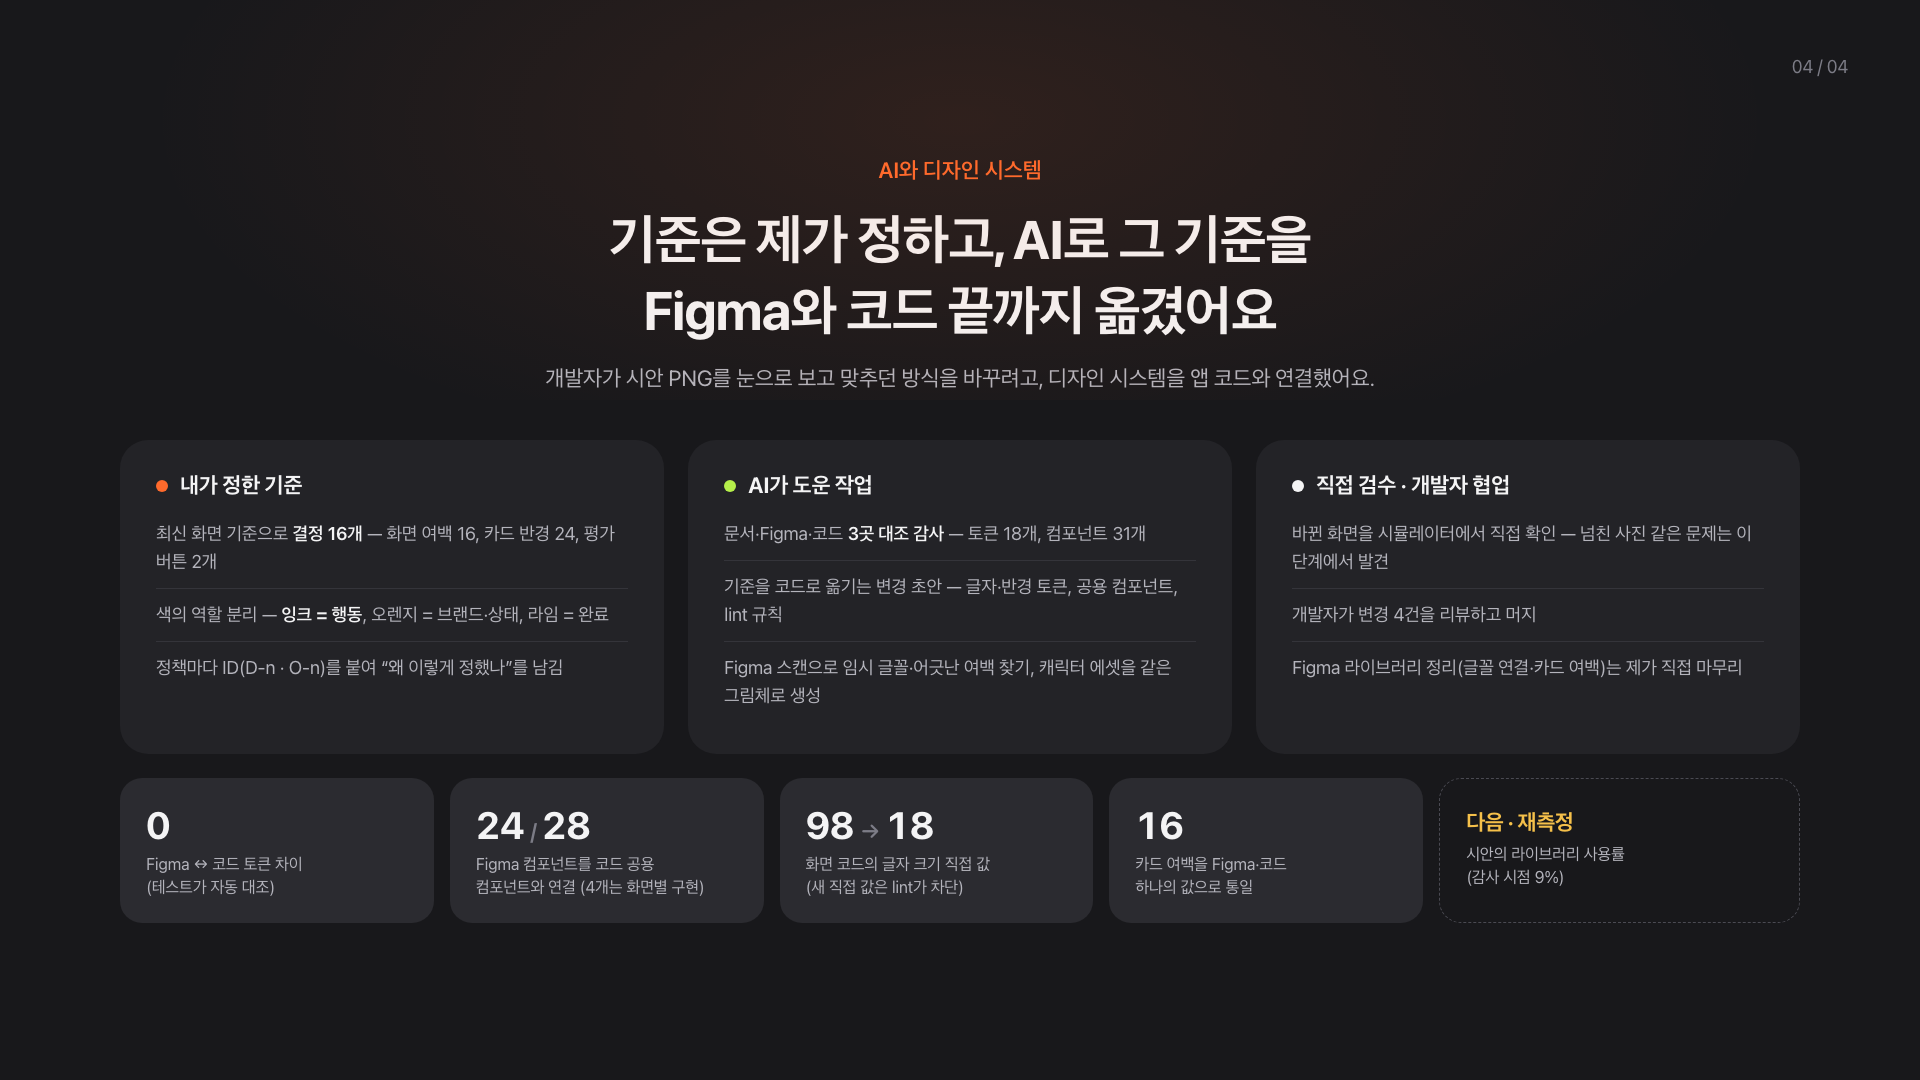
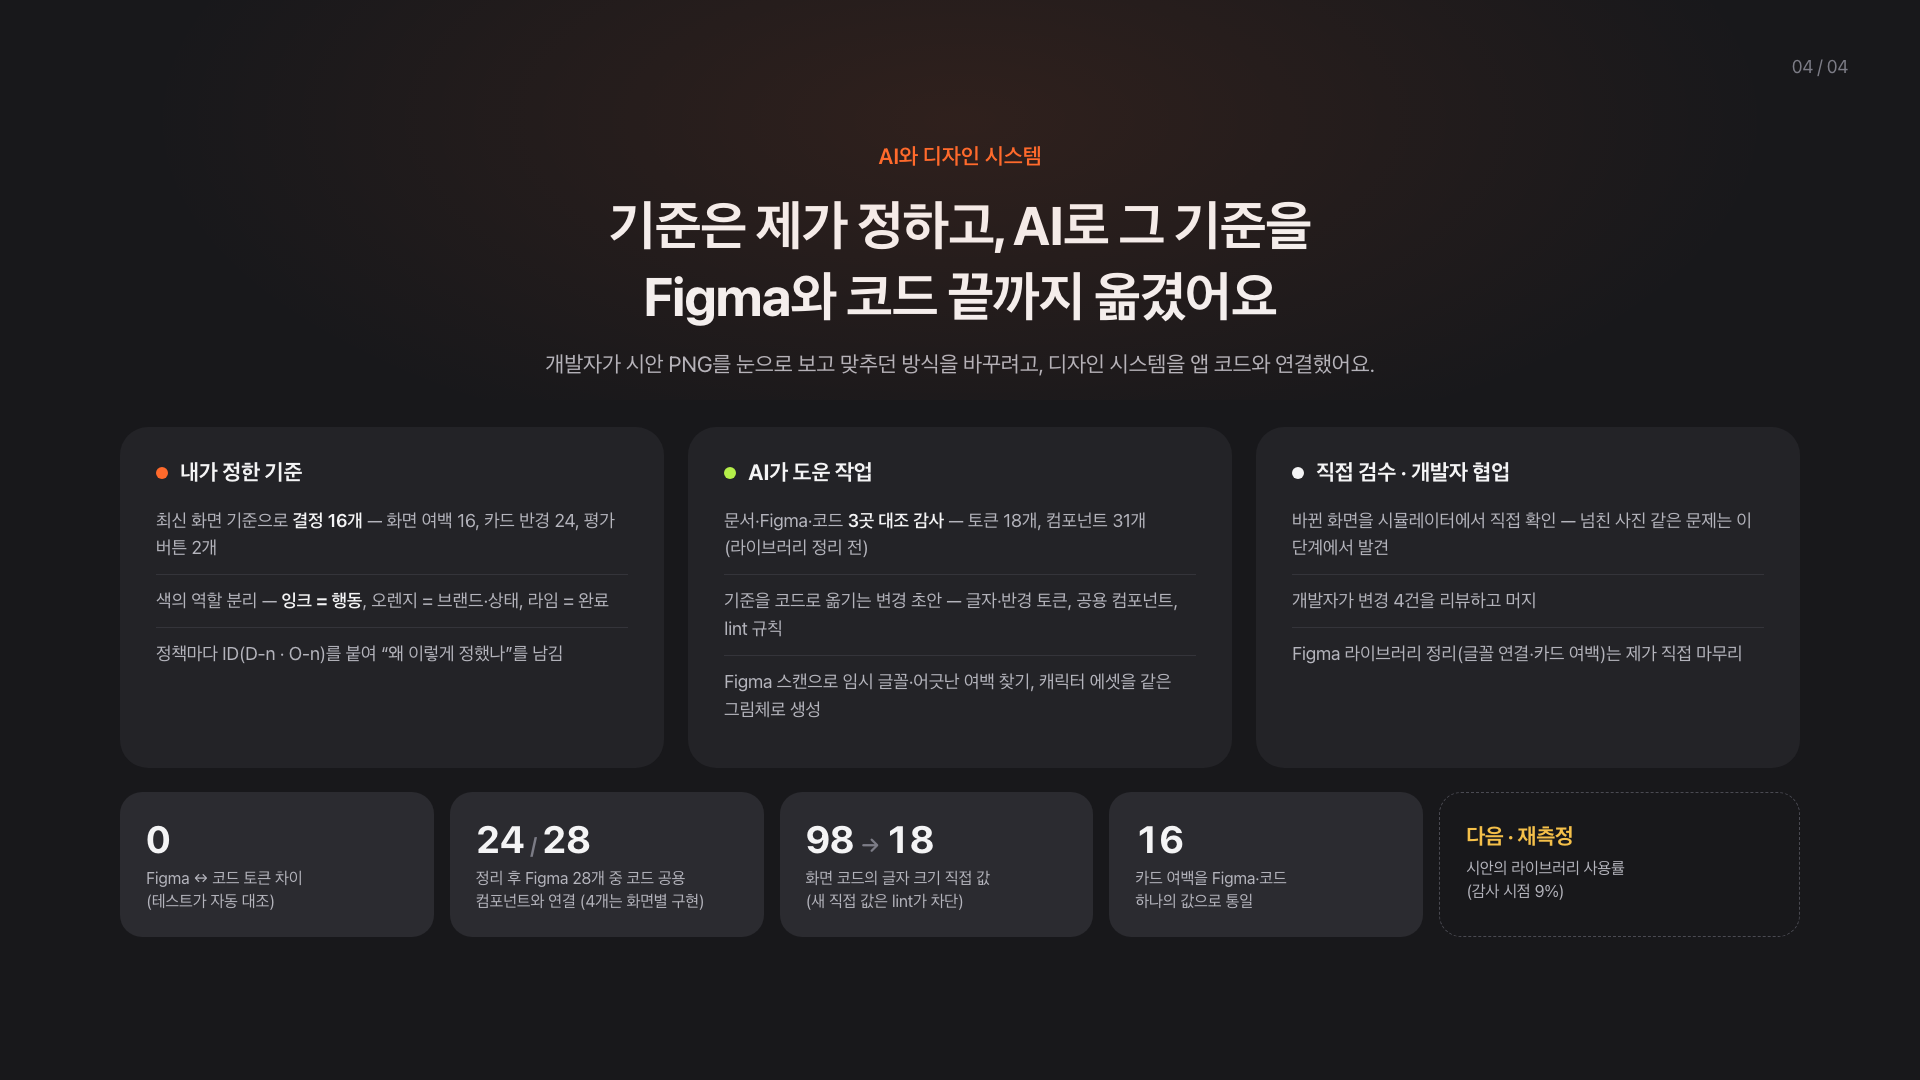
portfolio: 하루 12단어로 통일, 컴포넌트 수 기준 표기(정리 전 31 · 정리 후 28 중 24), onikan-02 Code Connect·1:1 문구를 토큰 차이 0 · 24/28 매핑으로 교체

diff --git a/portfolio/onikan-02-design-system.html b/portfolio/onikan-02-design-system.html
@@ -1,0 +1,192 @@
+<!doctype html>
+<html lang="ko">
+<head>
+<meta charset="utf-8">
+<title>Onikan 02 · Design System</title>
+<style>
+  @font-face{font-family:'Pretendard';font-weight:400;src:url('../handoff/_ds/tintin-design-system-0bedd68d-616c-4058-b2fa-e93785070703/assets/fonts/Pretendard-Regular.woff2') format('woff2')}
+  @font-face{font-family:'Pretendard';font-weight:500;src:url('../handoff/_ds/tintin-design-system-0bedd68d-616c-4058-b2fa-e93785070703/assets/fonts/Pretendard-Medium.woff2') format('woff2')}
+  @font-face{font-family:'Pretendard';font-weight:600;src:url('../handoff/_ds/tintin-design-system-0bedd68d-616c-4058-b2fa-e93785070703/assets/fonts/Pretendard-SemiBold.woff2') format('woff2')}
+  @font-face{font-family:'Pretendard';font-weight:700;src:url('../handoff/_ds/tintin-design-system-0bedd68d-616c-4058-b2fa-e93785070703/assets/fonts/Pretendard-Bold.woff2') format('woff2')}
+  @font-face{font-family:'Pretendard';font-weight:800;src:url('../handoff/_ds/tintin-design-system-0bedd68d-616c-4058-b2fa-e93785070703/assets/fonts/Pretendard-ExtraBold.woff2') format('woff2')}
+
+  :root{
+    --bg:#0E0F12; --card:#16171B; --card2:#1B1C22; --chip:#212228;
+    --line:rgba(255,255,255,.08); --line2:rgba(255,255,255,.06);
+    --tx:#F4F4F6; --bd:#AEAFB6; --mt:#75767D;
+    --or:#FF6A2B; --or-real:#EF5112; --lime:#A3E635; --ink:#1D1D21;
+    --mono:'SF Mono',ui-monospace,'Menlo',monospace;
+  }
+  *{box-sizing:border-box;margin:0;padding:0}
+  html,body{background:#000}
+  .slide{
+    position:relative; width:1920px; height:1080px; overflow:hidden;
+    background:
+      radial-gradient(1200px 620px at 50% -8%, rgba(255,106,43,.10), transparent 60%),
+      radial-gradient(900px 700px at 92% 8%, rgba(80,110,255,.06), transparent 55%),
+      var(--bg);
+    color:var(--tx);
+    font-family:'Pretendard','Apple SD Gothic Neo',-apple-system,system-ui,sans-serif;
+    -webkit-font-smoothing:antialiased;
+    padding:64px 84px 56px;
+    display:flex; flex-direction:column;
+  }
+  /* header */
+  .hd{display:flex; justify-content:space-between; align-items:center;
+      font-size:15px; letter-spacing:.14em; color:var(--mt); font-weight:600;
+      padding-bottom:18px; border-bottom:1px solid var(--line);}
+  .hd .l b{color:var(--or)} .hd .l span{color:#C9CAD0; margin-left:10px}
+  /* title */
+  .title{margin-top:34px}
+  .title h1{font-size:46px; font-weight:800; letter-spacing:-.02em; line-height:1.15}
+  .title p{margin-top:14px; font-size:19px; line-height:1.6; color:var(--bd); font-weight:400; max-width:1180px}
+  .title p b{color:#EDEDF0; font-weight:600}
+  /* governance band */
+  .gov{margin-top:26px; display:flex; align-items:center; gap:18px;
+       background:linear-gradient(90deg, rgba(255,106,43,.12), rgba(255,106,43,.03) 60%, transparent);
+       border:1px solid rgba(255,106,43,.28); border-radius:14px; padding:16px 22px;}
+  .gov .dot{width:9px;height:9px;border-radius:99px;background:var(--or);box-shadow:0 0 0 5px rgba(255,106,43,.16);flex:none}
+  .gov .k{font-size:13px;font-weight:700;letter-spacing:.12em;color:var(--or);flex:none}
+  .gov .v{font-size:23px;font-weight:700;letter-spacing:-.01em}
+  .gov .en{margin-left:auto;font-size:13px;color:var(--mt);font-family:var(--mono);letter-spacing:.02em}
+  /* cards */
+  .cards{margin-top:24px; flex:1; display:grid; grid-template-columns:repeat(3,1fr); gap:22px;}
+  .card{background:var(--card); border:1px solid var(--line); border-radius:20px; padding:26px 26px 24px;
+        display:flex; flex-direction:column;}
+  .card .no{font-size:13px;font-weight:700;color:var(--mt);font-family:var(--mono);letter-spacing:.1em}
+  .card .eb{margin-top:12px;font-size:12.5px;font-weight:700;letter-spacing:.16em;color:var(--or)}
+  .card h3{margin-top:7px;font-size:24px;font-weight:700;letter-spacing:-.01em}
+  .card .doc{margin-top:3px;font-size:13px;color:var(--mt);font-family:var(--mono)}
+  .divider{height:1px;background:var(--line2);margin:20px 0}
+  /* token rows */
+  .tok{display:flex;align-items:center;gap:13px;padding:9px 0}
+  .tok .sw{width:34px;height:34px;border-radius:9px;flex:none;border:1px solid rgba(255,255,255,.10)}
+  .tok .nm{font-size:15.5px;font-weight:600}
+  .tok .hex{font-size:12.5px;color:var(--mt);font-family:var(--mono);margin-top:2px}
+  .tok .role{margin-left:auto;font-size:13px;color:var(--bd)}
+  .metarow{display:flex;gap:8px;flex-wrap:wrap;margin-top:16px}
+  .mchip{font-size:13px;color:var(--bd);background:var(--chip);border:1px solid var(--line2);border-radius:8px;padding:7px 11px;font-weight:500}
+  .mchip b{color:#fff;font-weight:600}
+  /* contract block */
+  .code{background:#0C0D10;border:1px solid var(--line2);border-radius:12px;padding:16px 18px;font-family:var(--mono);font-size:13.5px;line-height:1.9;color:#C7C8CF}
+  .code .cn{color:var(--lime);font-weight:600}
+  .code .kk{color:var(--mt)} .code .vv{color:#EDEDF0}
+  .code .st{color:var(--or)}
+  .note{margin-top:15px;font-size:15px;line-height:1.55;color:var(--bd)}
+  .note b{color:#fff;font-weight:600}
+  /* decision before/after */
+  .ba{display:flex;align-items:center;gap:16px;margin-top:4px}
+  .pill{height:52px;border-radius:99px;display:flex;align-items:center;justify-content:center;font-size:15px;font-weight:600;flex:1}
+  .pill.before{background:var(--or-real);color:#fff;opacity:.55;position:relative}
+  .pill.before .x{position:absolute;right:-9px;top:-9px;width:22px;height:22px;border-radius:99px;background:#2a2b31;border:1px solid var(--line);display:flex;align-items:center;justify-content:center;font-size:12px;color:#ff7a7a}
+  .pill.after{background:var(--ink);color:#F7F7F9;border:1px solid rgba(255,255,255,.14)}
+  .arrow{color:var(--mt);font-size:22px;flex:none}
+  .lab{display:flex;justify-content:space-between;margin-top:8px;font-size:12px;color:var(--mt)}
+  .legend{display:flex;flex-direction:column;gap:9px;margin-top:18px}
+  .lg{display:flex;align-items:center;gap:10px;font-size:14px;color:var(--bd)}
+  .lg i{width:13px;height:13px;border-radius:4px;flex:none}
+  .lg b{color:#fff;font-weight:600}
+  /* tag foot in card */
+  .tag{margin-top:auto;padding-top:18px;font-size:13.5px;color:var(--mt)}
+  .tag b{color:var(--or)}
+  /* outcome */
+  .out{margin-top:22px;display:flex;align-items:center;gap:16px}
+  .out .ar{color:var(--or);font-size:20px;font-weight:800}
+  .out .t{font-size:19px;font-weight:600;color:#EDEDF0}
+  .out .sub{margin-left:auto;font-size:13px;letter-spacing:.12em;color:var(--mt);font-weight:600}
+</style>
+</head>
+<body>
+<div class="slide">
+  <div class="hd">
+    <div class="l"><b>02 · ONIKAN</b><span>DESIGN SYSTEM</span></div>
+    <div class="r">SSOT · GOVERNANCE</div>
+  </div>
+
+  <div class="title">
+    <h1>하나의 기준으로 굴러가는 디자인 시스템</h1>
+    <p>토큰을 한 문서(SSOT)에 모으고, 컴포넌트를 <b>계약</b>으로 고정하고, 결정마다 <b>근거</b>를 남겼습니다.
+       그래서 화면이 늘어도 · 다른 사람이 이어받아도 기준이 흔들리지 않습니다.</p>
+  </div>
+
+  <div class="gov">
+    <span class="dot"></span>
+    <span class="k">SSOT 원칙</span>
+    <span class="v">값이 충돌하면, <b style="color:var(--or)">DESIGN.md</b>가 이긴다.</span>
+    <span class="en">single source of truth · conflict → doc wins</span>
+  </div>
+
+  <div class="cards">
+    <!-- 01 tokens -->
+    <div class="card">
+      <div class="no">01</div>
+      <div class="eb">TOKENS · SSOT</div>
+      <h3>토큰을 한 문서에</h3>
+      <div class="doc">DESIGN.md</div>
+      <div class="divider"></div>
+      <div class="tok"><span class="sw" style="background:#1D1D21"></span><div><div class="nm">잉크 Ink</div><div class="hex">#1D1D21</div></div><span class="role">주요 액션</span></div>
+      <div class="tok"><span class="sw" style="background:#EF5112"></span><div><div class="nm">오렌지 Orange</div><div class="hex">#EF5112</div></div><span class="role">브랜드·상태</span></div>
+      <div class="tok"><span class="sw" style="background:#A3E635"></span><div><div class="nm">라임 Lime</div><div class="hex">#A3E635</div></div><span class="role">진척·완료</span></div>
+      <div class="tok"><span class="sw" style="background:#8E8E97"></span><div><div class="nm">Onikan Grey</div><div class="hex">hue 228 · 뉴트럴</div></div><span class="role">기본</span></div>
+      <div class="metarow">
+        <span class="mchip">Radius <b>24 / 999</b></span>
+        <span class="mchip">Space <b>4pt scale</b></span>
+        <span class="mchip">Type <b>Pretendard</b></span>
+      </div>
+      <div class="tag">색·간격·타이포·라운드 = <b>단일 소스</b></div>
+    </div>
+
+    <!-- 02 component contract -->
+    <div class="card">
+      <div class="no">02</div>
+      <div class="eb">COMPONENT CONTRACT</div>
+      <h3>컴포넌트를 계약으로</h3>
+      <div class="doc">COMPONENTS.md</div>
+      <div class="divider"></div>
+      <div class="code">
+<span class="cn">button-primary</span><br>
+<span class="kk">&nbsp;&nbsp;bg</span>&nbsp;&nbsp;&nbsp;&nbsp;→ <span class="vv">--ink</span><br>
+<span class="kk">&nbsp;&nbsp;text</span>&nbsp;&nbsp;→ <span class="vv">--on-ink</span><br>
+<span class="kk">&nbsp;&nbsp;radius</span> → <span class="vv">--pill</span><br>
+<span class="kk">&nbsp;&nbsp;state</span>&nbsp;→ <span class="st">default / pressed / disabled</span>
+      </div>
+      <div class="note"><b>이름 · 값 · 상태</b>를 고정 → 화면마다 버튼을 새로 만들지 않습니다.</div>
+      <div class="metarow">
+        <span class="mchip">토큰 차이 <b>0</b> · 자동 대조</span>
+        <span class="mchip">컴포넌트 <b>24/28</b> 매핑</span>
+      </div>
+      <div class="tag">재사용 · <b>디자인 = 개발 일치</b></div>
+    </div>
+
+    <!-- 03 decision log -->
+    <div class="card">
+      <div class="no">03</div>
+      <div class="eb">DECISION LOG</div>
+      <h3>결정엔 근거를</h3>
+      <div class="doc">D-1~D-3 · O-1~O-7</div>
+      <div class="divider"></div>
+      <div style="font-size:13px;color:var(--mt);font-weight:600;letter-spacing:.04em;margin-bottom:12px">D-3 · 색 역할 재정의</div>
+      <div class="ba">
+        <div class="pill before">주요 버튼<span class="x">✕</span></div>
+        <span class="arrow">→</span>
+        <div class="pill after">주요 버튼</div>
+      </div>
+      <div class="lab"><span>Before · 오렌지</span><span>After · 잉크</span></div>
+      <div class="legend">
+        <div class="lg"><i style="background:#1D1D21;border:1px solid rgba(255,255,255,.2)"></i><b>잉크</b> = 주요 액션</div>
+        <div class="lg"><i style="background:#EF5112"></i><b>오렌지</b> = 브랜드·상태 전용</div>
+        <div class="lg"><i style="background:#A3E635"></i><b>라임</b> = 진척·완료</div>
+      </div>
+      <div class="note" style="margin-top:16px">액션·브랜드·상태가 한 색이면 충돌 → <b>액션은 잉크로 단일화</b>.</div>
+      <div class="tag">“왜 그렇게 정했나”를 <b>ID로 기록</b></div>
+    </div>
+  </div>
+
+  <div class="out">
+    <span class="ar">→</span>
+    <span class="t">화면이 늘어도, 사람이 바뀌어도 <b style="color:#fff">같은 기준</b>으로 판단합니다.</span>
+    <span class="sub">확장 · 협업 · 핸드오프</span>
+  </div>
+</div>
+</body>
+</html>

diff --git a/portfolio/onikan-deck-2026-11.html b/portfolio/onikan-deck-2026-11.html
@@ -158,7 +158,7 @@
     <div>
       <div class="label">ONIKAN · 제품과 역할</div>
       <h1>매일 일본어 단어를 외우는 일을<br>가게에 들르듯 가볍게 만들었어요.</h1>
-      <p class="sub">하루 20단어를 외우면 오니기리 재료가 쌓이는 일본어 단어 앱이에요.<br>디자이너 1명(저)과 개발자 1명이 만들어 <b>iOS·Android에 출시</b>했고, 지금도 업데이트하고 있어요.</p>
+      <p class="sub">하루 12단어를 외우면 오니기리 재료가 쌓이는 일본어 단어 앱이에요.<br>디자이너 1명(저)과 개발자 1명이 만들어 <b>iOS·Android에 출시</b>했고, 지금도 업데이트하고 있어요.</p>
 
       <div class="facts">
         <div class="fact">
@@ -287,7 +287,7 @@
     <div class="col">
       <div class="who"><span class="dot" style="background:var(--lime)"></span>AI가 도운 작업</div>
       <ul>
-        <li>문서·Figma·코드 <b>3곳 대조 감사</b> — 토큰 18개, 컴포넌트 31개</li>
+        <li>문서·Figma·코드 <b>3곳 대조 감사</b> — 토큰 18개, 컴포넌트 31개(라이브러리 정리 전)</li>
         <li>기준을 코드로 옮기는 변경 초안 — 글자·반경 토큰, 공용 컴포넌트, lint 규칙</li>
         <li>Figma 스캔으로 임시 글꼴·어긋난 여백 찾기, 캐릭터 에셋을 같은 그림체로 생성</li>
       </ul>
@@ -304,7 +304,7 @@
 
   <div class="nums">
     <div class="num"><div class="v">0</div><div class="k">Figma ↔ 코드 토큰 차이<br>(테스트가 자동 대조)</div></div>
-    <div class="num"><div class="v">24<small>/</small>28</div><div class="k">Figma 컴포넌트를 코드 공용<br>컴포넌트와 연결 (4개는 화면별 구현)</div></div>
+    <div class="num"><div class="v">24<small>/</small>28</div><div class="k">정리 후 Figma 28개 중 코드 공용<br>컴포넌트와 연결 (4개는 화면별 구현)</div></div>
     <div class="num"><div class="v">98<small>→</small>18</div><div class="k">화면 코드의 글자 크기 직접 값<br>(새 직접 값은 lint가 차단)</div></div>
     <div class="num"><div class="v">16</div><div class="k">카드 여백을 Figma·코드<br>하나의 값으로 통일</div></div>
     <div class="num next"><div class="v">다음 · 재측정</div><div class="k">시안의 라이브러리 사용률<br>(감사 시점 9%)</div></div>
